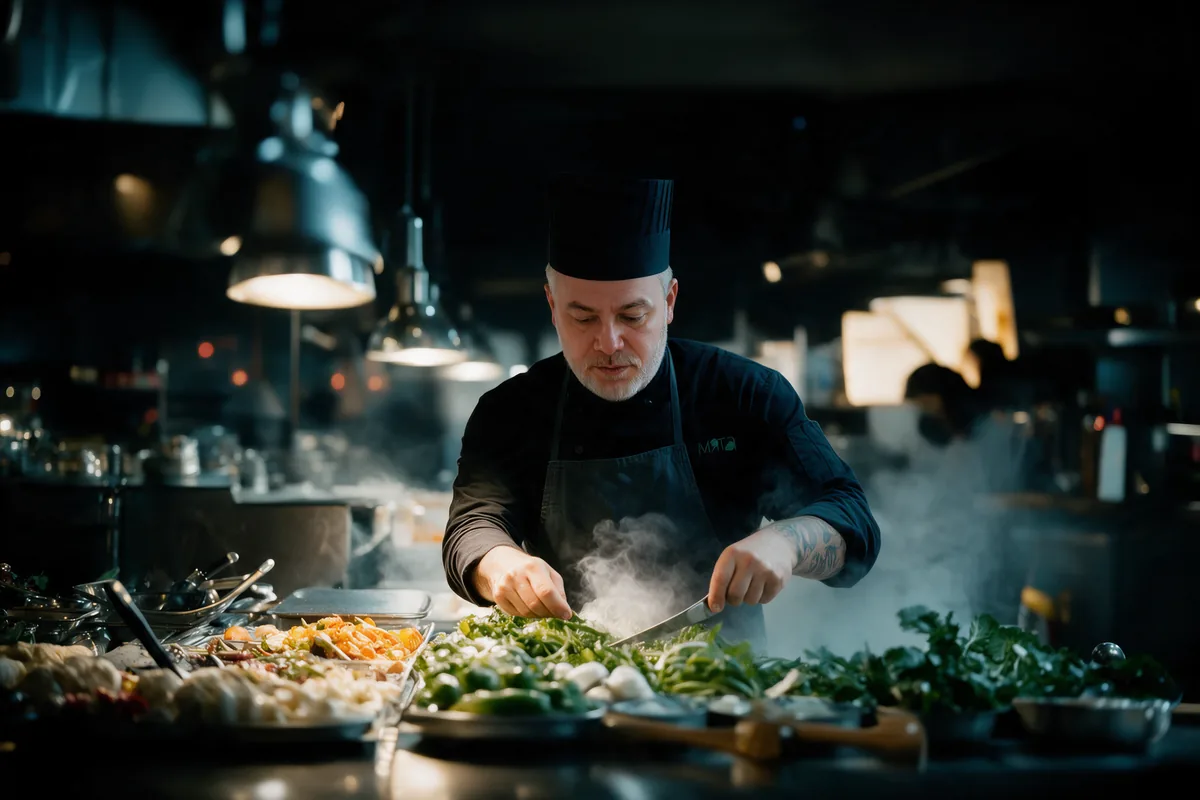
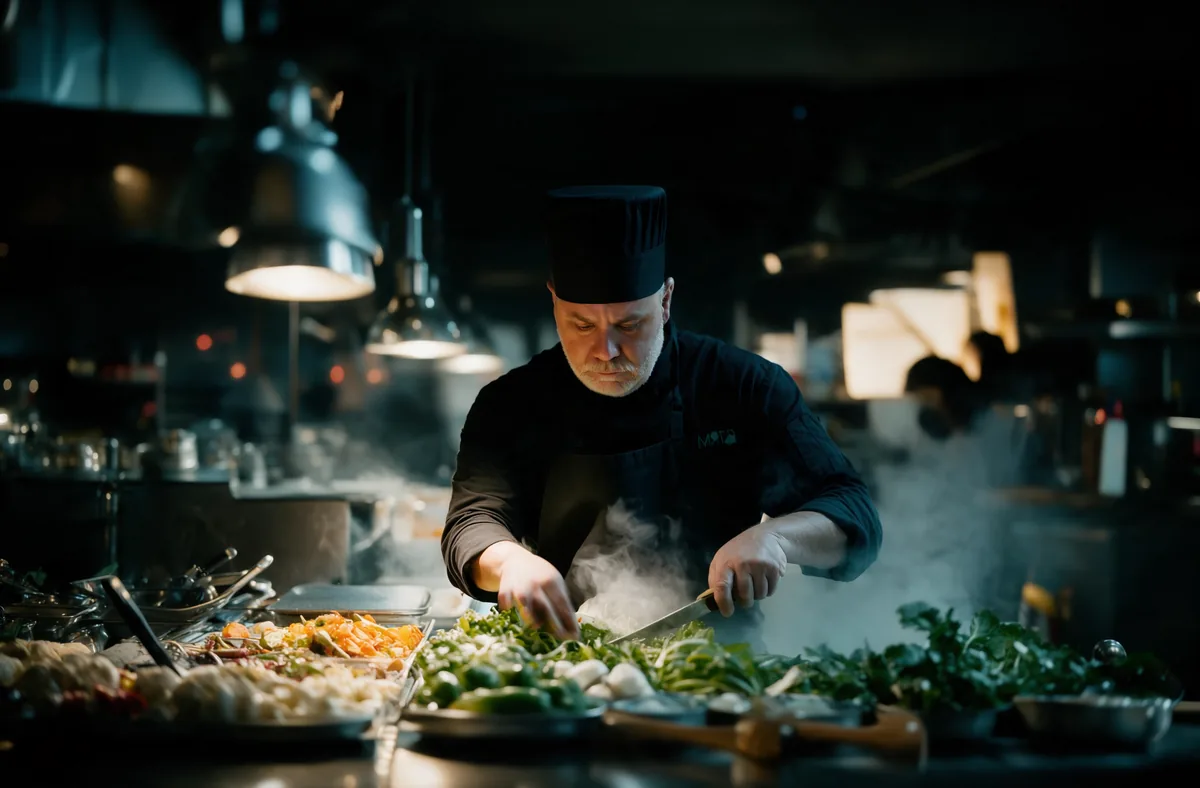
Новое фото на первом экране (Любимка) и пар из него
- фото Повар/Любимка.png в трёх размерах: 1200, 1600, 2048px
- фокус раскладки на новом поваре (голова по центру, грудь в точке макета)
- слой пара заново выделен из нового снимка; копии переставлены по новому силуэту,
  координаты пара теперь в пикселях самого фото

diff --git a/steam-texture.js b/steam-texture.js
@@ -1,7 +1,7 @@
-/* Слой пара, выделенный из самой фотографии (итогпоток.png): яркость пара над фоном.
+/* Слой пара, выделенный из самой фотографии (Повар/Любимка.png): яркость пара над фоном.
    Встроен как data URI, чтобы WebGL мог читать его и при открытии файла с диска. */
 window.MYATA_STEAM_TEXTURE = {
[1 lines of base64/hex data omitted]
-  // прямоугольник текстуры в координатах макета 1440×859 и усиление при упаковке
-  x: 659.69, y: 549.53, w: 210.30, h: 225.36, gain: 1.6,
[1 lines of base64/hex data omitted]
+  // прямоугольник текстуры в пикселях фото 2048×1344 и усиление при упаковке
+  x: 925, y: 795, w: 290, h: 300, gain: 1.6,
 };

diff --git a/steam.js b/steam.js
@@ -6,7 +6,7 @@
      Шейдер накладывает несколько копий этого слоя (screen): одна «дышит» на месте и уплотняет
      пар у живота, другие продолжают его вверх по фартуку и едва дымят у краёв рукавов.
      Движение почти незаметное: подъём ~0,6 px/с и медленное колыхание.
-     Координаты — в пикселях макета (кадр 1440×859, фото 1446×964 со сдвигом 1,-13). */
+     Координаты — в пикселях самого фото (Повар/Любимка.png, 2048×1344). */
 
   const canvas = document.querySelector("[data-steam]");
   const media = document.querySelector("[data-hero-media]");
@@ -21,17 +21,17 @@
   if (!gl) { announce(false); return; }
 
   const SRC = { x: TEX.x + TEX.w / 2, y: TEX.y + TEX.h / 2 }; // центр родного пара
-  // [x, y центра копии, масштаб, поворот°] и [зеркало, прозрачность, фаза, амплитуда колыхания px]
+  // [x, y центра копии (px фото), масштаб, поворот°] и [зеркало, прозрачность, фаза, амплитуда колыхания px]
   const COPIES = [
-    [SRC.x, SRC.y, 1.0, 0,    0, 0.50, 0.00, 3.0], // на месте: пар у живота гуще и «дышит»
-    [772, 580, 1.1, -4,       1, 0.38, 0.37, 4.0], // продолжение вверх по фартуку
-    [560, 600, 0.75, 8,       0, 0.28, 0.61, 3.5], // край левого рукава
-    [1052, 612, 0.75, -8,     1, 0.28, 0.83, 3.5], // край правого рукава
+    [SRC.x, SRC.y, 1.0, 0,    0, 0.50, 0.00, 4.0], // на месте: пар у живота гуще и «дышит»
+    [1046, 850, 1.08, -4,     1, 0.38, 0.37, 5.5], // продолжение вверх по фартуку к груди
+    [775, 880, 0.75, 8,       0, 0.28, 0.61, 5.0], // край левого рукава
+    [1488, 880, 0.75, -8,     1, 0.24, 0.83, 5.0], // край правого рукава
   ];
   const N = COPIES.length;
-  // зона, где вообще может быть пар (в координатах макета) — остальное не рисуем
-  const REGION = { x0: 420, y0: 300, x1: 1190, y1: 790 };
-  const PHOTO = { w: 1446, h: 964, ox: -1, oy: 13 };
+  // зона, где вообще может быть пар (в пикселях фото) — остальное не рисуем
+  const REGION = { x0: 600, y0: 620, x1: 1660, y1: 1160 };
+  const PHOTO = { w: 2048, h: 1344, ox: 0, oy: 0 };
 
   const VERT = `
     attribute vec2 aPos;
@@ -43,7 +43,7 @@
     uniform sampler2D uTex;
     uniform vec2 uRes;
     uniform float uTime;
-    uniform vec4 uBox;      // x, y, w, h слоя пара в координатах макета
+    uniform vec4 uBox;      // x, y, w, h слоя пара в пикселях фото
     uniform vec4 uA[${N}];  // центр, масштаб, поворот (рад)
     uniform vec4 uB[${N}];  // зеркало, прозрачность, фаза, амплитуда
     uniform float uGain;
@@ -88,15 +88,15 @@
         if (b.x > 0.5) v.x = -v.x;
 
         // медленное колыхание: плавное смещение, сильнее у верхушки струй
-        float top = clamp(0.5 - v.y / 110.0, 0.2, 1.0);
-        vec2 sway = (vec2(noise(v * 0.018 + vec2(t * 0.035, b.z * 9.0)),
-                          noise(v * 0.018 + vec2(5.2 - t * 0.03, b.z * 4.0))) - 0.5) * 2.0 * b.w * top;
+        float top = clamp(0.5 - v.y / 150.0, 0.2, 1.0);
+        vec2 sway = (vec2(noise(v * 0.013 + vec2(t * 0.035, b.z * 9.0)),
+                          noise(v * 0.013 + vec2(5.2 - t * 0.03, b.z * 4.0))) - 0.5) * 2.0 * b.w * top;
 
         // почти незаметный подъём без накопления: две фазы с перекрёстным переходом
         float ph1 = fract(t / 14.0 + b.z);
         float ph2 = fract(ph1 + 0.5);
         float w1 = 1.0 - abs(ph1 * 2.0 - 1.0);
-        float rise = 8.0;
+        float rise = 11.0;
         float st = steamAt(v + sway + vec2(0.0, ph1 * rise)) * w1
                  + steamAt(v + sway + vec2(0.0, ph2 * rise)) * (1.0 - w1);
         acc += st * b.y;

diff --git a/index.html b/index.html
@@ -10,7 +10,7 @@
   <link rel="preconnect" href="https://fonts.googleapis.com">
   <link rel="preconnect" href="https://fonts.gstatic.com" crossorigin>
   <link rel="stylesheet" href="https://fonts.googleapis.com/css2?family=Geologica:wght@300;400;500&family=Golos+Text:wght@400;500&display=swap">
-  <link rel="stylesheet" href="styles.css?v=202610231900">
+  <link rel="stylesheet" href="styles.css?v=202610232009">
 </head>
 <body>
   <svg width="0" height="0" style="position:absolute" aria-hidden="true">
@@ -24,8 +24,8 @@
     <div class="hero__bg">
     <div class="hero__media" data-hero-media>
       <picture>
-        <source type="image/webp" srcset="assets/hero-1200.webp 1200w, assets/hero.webp 1920w, assets/hero-2496.webp 2496w" sizes="(max-width: 767px) 160vh, 101vw">
-        <img src="assets/hero.jpg" width="1920" height="1280" alt="Шеф-повар МЯТА выкладывает свежую зелень на подачу" fetchpriority="high">
+        <source type="image/webp" srcset="assets/hero-1200.webp 1200w, assets/hero.webp 1600w, assets/hero-2048.webp 2048w" sizes="(max-width: 767px) 160vh, 102vw">
+        <img src="assets/hero.jpg" width="1600" height="1050" alt="Шеф-повар МЯТА выкладывает свежую зелень на подачу" fetchpriority="high">
       </picture>
       <canvas class="hero__steam" data-steam aria-hidden="true"></canvas>
     </div>
@@ -143,8 +143,8 @@
   </section>
 
 
-  <script src="main.js?v=202610231900" defer></script>
-  <script src="steam-texture.js?v=202610231900" defer></script>
-  <script src="steam.js?v=202610231900" defer></script>
+  <script src="main.js?v=202610232009" defer></script>
+  <script src="steam-texture.js?v=202610232009" defer></script>
+  <script src="steam.js?v=202610232009" defer></script>
 </body>
 </html>

diff --git a/main.js b/main.js
@@ -6,11 +6,11 @@
   const media = document.querySelector("[data-hero-media]");
 
   /* ---------- Фото как cover, но с фокусом на шефе ----------
-     В макете (узел 45:208) фото 3:2 растянуто до 1446×964 и сдвинуто на (1, -13)
-     внутри кадра 1440×859. Повторяем это на любом экране: масштабируем
-     и держим точку FOCUS (грудь шефа) в нужном месте кадра. */
-  const SRC = { w: 2496, h: 1664 };
-  const FOCUS = { u: 734 / 1446, v: 533 / 964 };
+     Фото (Повар/Любимка.png, 2048×1344) масштабируем как в макете (узел 45:208):
+     чуть шире кадра и на 12% выше него, и держим точку FOCUS (грудь шефа,
+     под голову по центру) в нужном месте кадра на любом экране. */
+  const SRC = { w: 2048, h: 1344 };
+  const FOCUS = { u: 1043 / 2048, v: 720 / 1344 };
 
   function placeMedia() {
     if (!hero || !media) return;
